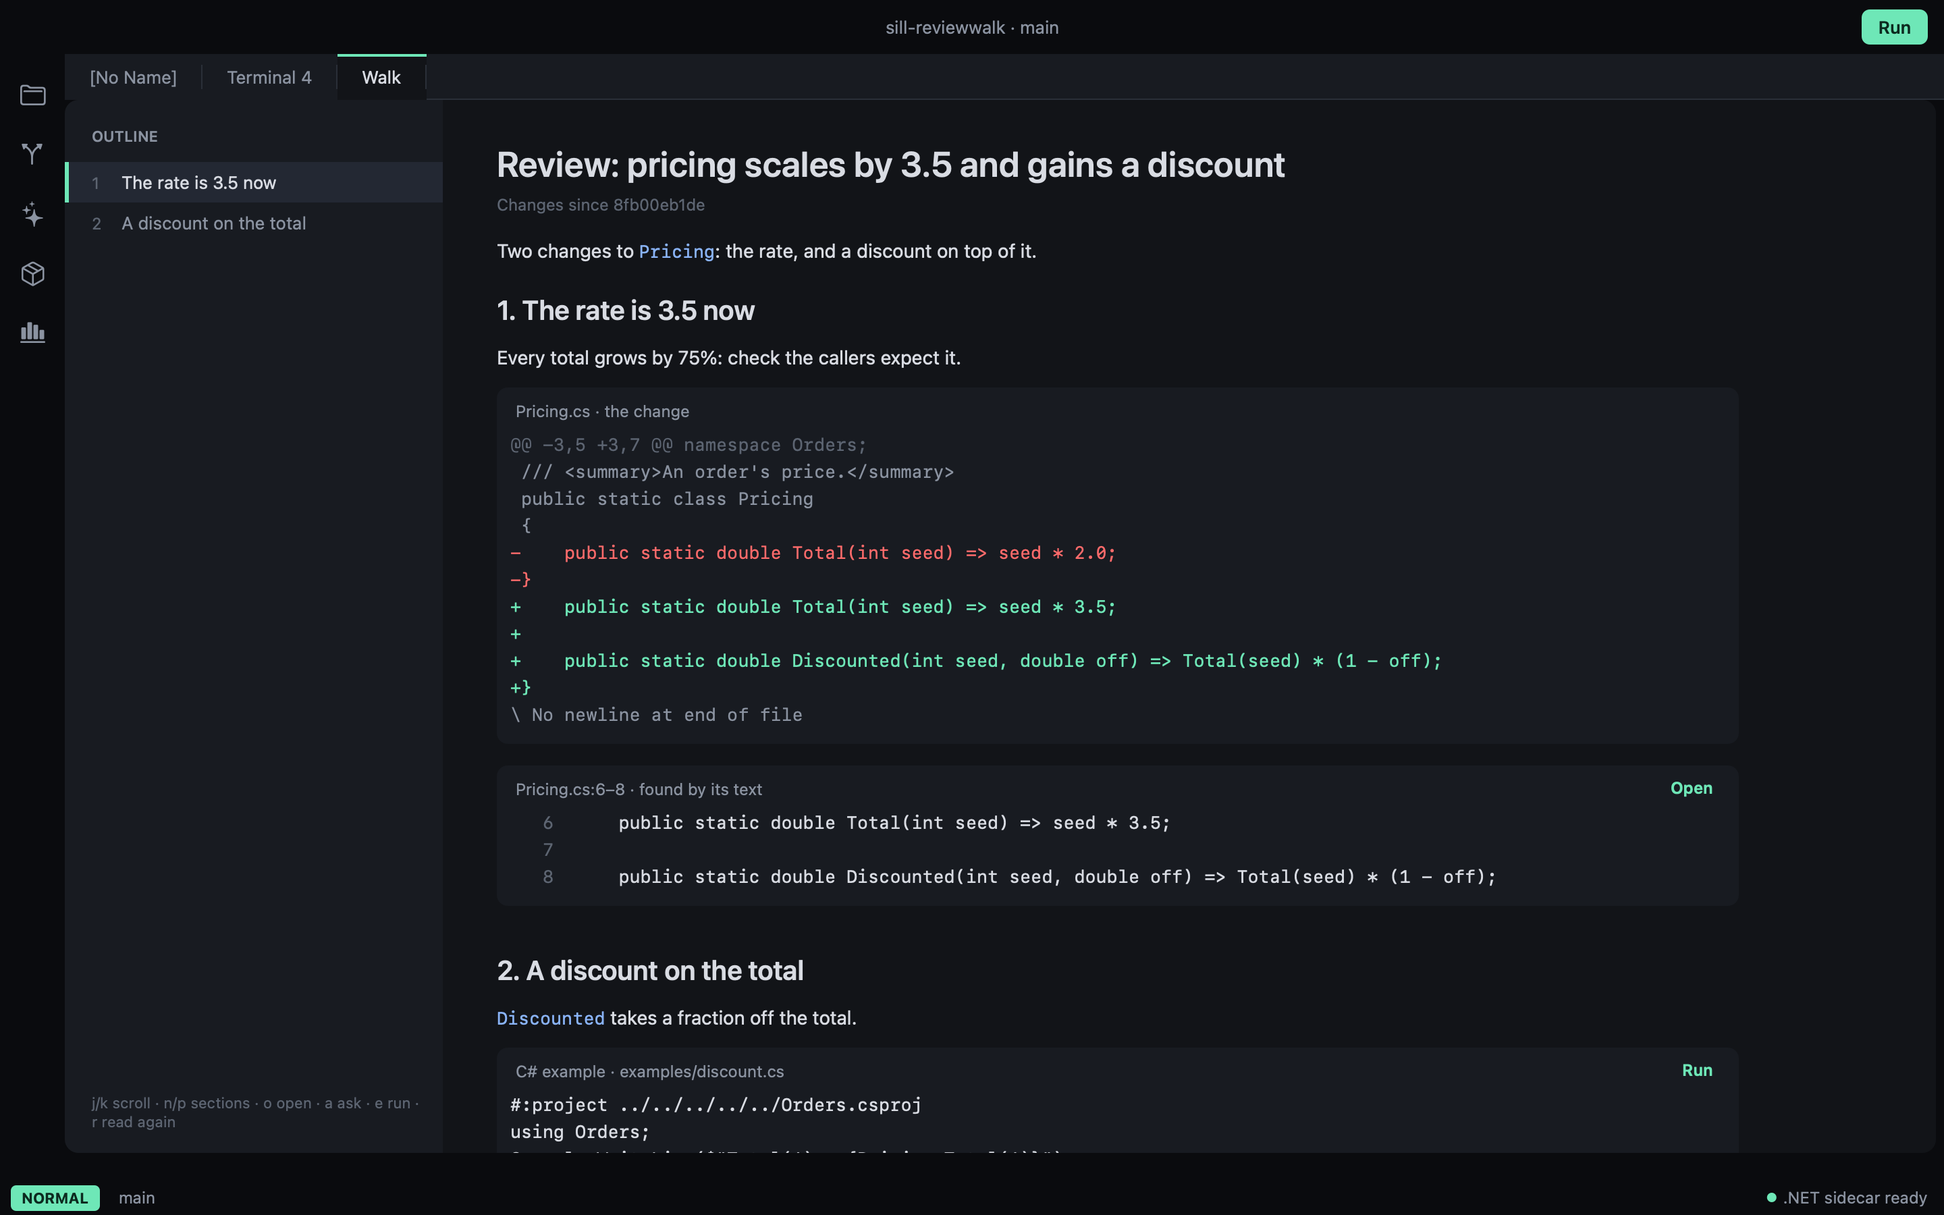
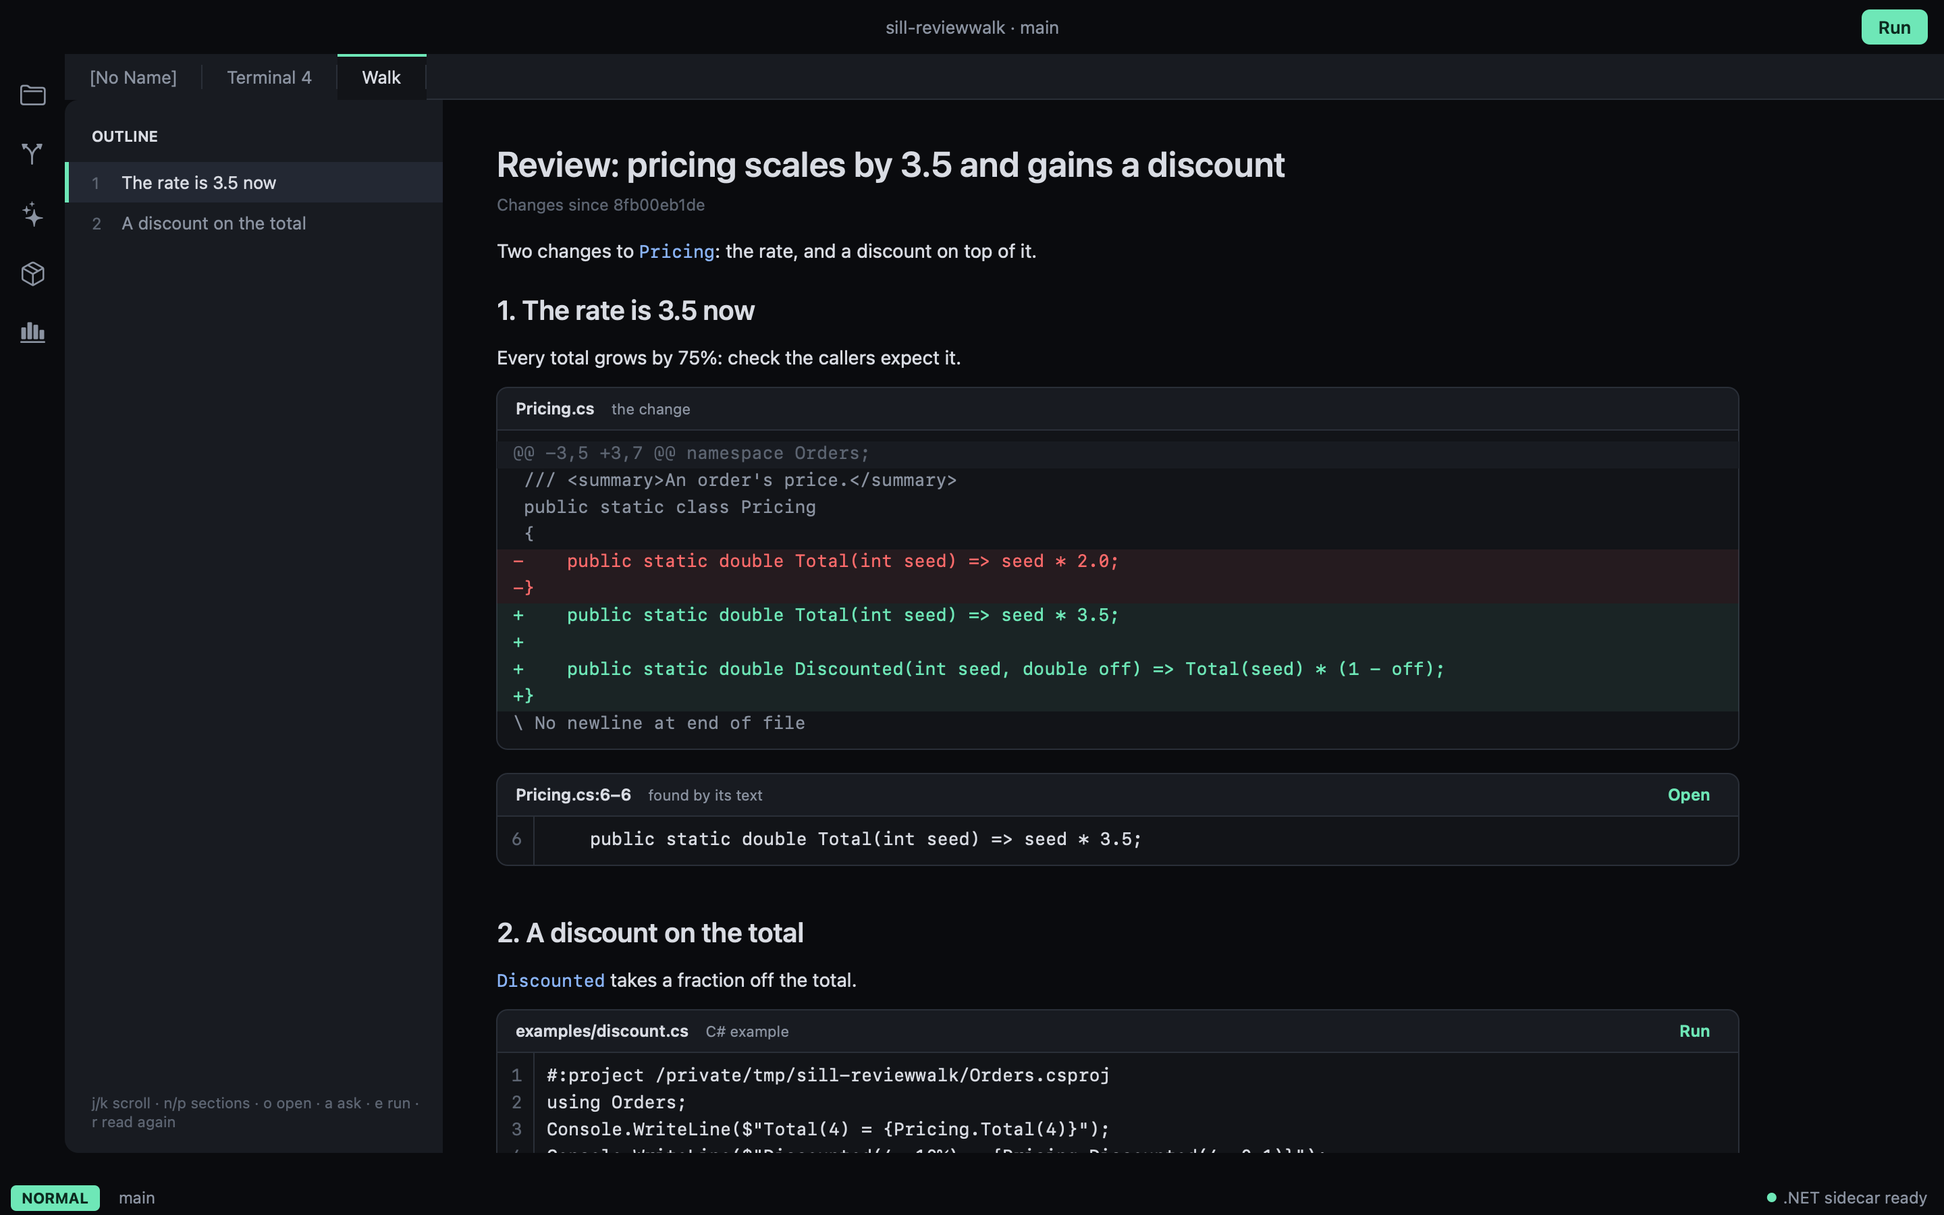
Notebook cells look like code panes
Walkthroughs, reviews and baskets draw each reference as a cell on the canvas: a header strip with the path, lines, facts and actions, the code on the editor's ground with a line-number gutter, details and an example's output as a footer inside the same border, a modified border on code changed since it was added, a diff's rows tinted across.

diff --git a/Sources/SillApp/WalkView.swift b/Sources/SillApp/WalkView.swift
@@ -91,7 +91,7 @@ final class WalkView: NSView, ToolContent {
     }
 
     override func draw(_: NSRect) {
-        Design.editor.setFill()
+        Design.canvas.setFill()
         bounds.fill()
         outlineFrames = []
         actionFrames = []
@@ -127,7 +127,10 @@ final class WalkView: NSView, ToolContent {
         fileFrames.append(("menu:files", NSRect(
             x: 28 + outlineLabel.size().width, y: 12, width: files.size().width + 16, height: 28
         )))
-        fileFrames.append(("menu:context", NSRect(x: contextX - 8, y: 12, width: context.size().width + 16, height: 28)))
+        fileFrames.append((
+            "menu:context",
+            NSRect(x: contextX - 8, y: 12, width: context.size().width + 16, height: 28)
+        ))
     }
 
     // MARK: The context
@@ -287,43 +290,137 @@ final class WalkView: NSView, ToolContent {
             }
             y += height + gap
         }
-        /// A rounded box of mono lines, a heading over them, an action on the right.
+        /// A cell, as a code pane shows code: a header strip (what it is, its facts, its actions on the right), the
+        /// lines on the editor's ground with a gutter of line numbers when they have them, and a footer (details, an
+        /// example's output) inside the same border.
         func box(
             _ heading: String,
             _ rows: [NSAttributedString],
-            action: (String, String, String)? = nil,
-            tint: NSColor = Design.chrome
+            firstLine: Int? = nil,
+            facts: [String] = [],
+            actions: [(title: String, kind: String, key: String)] = [],
+            footer: [NSAttributedString] = [],
+            footerTint: NSColor = Design.chrome,
+            border: NSColor = Design.border,
+            rowTints: [NSColor?] = []
         ) {
-            let lineHeight = EditorFont.metrics.height
-            let frame = NSRect(x: left, y: y, width: width, height: 34 + CGFloat(rows.count) * lineHeight + 10)
-            if frame.maxY > 0, frame.minY < bounds.height {
-                tint.setFill()
-                NSBezierPath(roundedRect: frame, xRadius: 8, yRadius: 8).fill()
-                text(heading, 12, Design.textMuted).draw(at: NSPoint(x: frame.minX + 14, y: frame.minY + 10))
-                var lineY = frame.minY + 34
-                for row in rows {
+            let lineHeight = EditorFont.metrics.height, header: CGFloat = 32
+            let footerHeight = footer.isEmpty ? 0 : CGFloat(footer.count) * lineHeight + 16
+            let frame = NSRect(
+                x: left, y: y, width: width,
+                height: header + (rows.isEmpty ? 0 : CGFloat(rows.count) * lineHeight + 16) + footerHeight
+            )
+            let gutter: CGFloat = firstLine.map { first in
+                CGFloat(String(first + max(rows.count - 1, 0)).count) * EditorFont.metrics.width + 28
+            } ?? 12
+            let visible = frame.maxY > 0 && frame.minY < bounds.height
+            // The actions, right to left in the header: placed now, drawn over the cell below.
+            var x = frame.maxX - 14
+            var labels: [(NSAttributedString, NSRect)] = []
+            for action in actions.reversed() {
+                let label = text(
+                    action.title,
+                    12,
+                    action.kind == "remove" ? Design.textMuted : Design.accent,
+                    weight: .semibold
+                )
+                let rect = NSRect(
+                    x: x - label.size().width - 14,
+                    y: frame.minY + 5,
+                    width: label.size().width + 14,
+                    height: 22
+                )
+                labels.append((label, rect))
+                actionFrames.append((action.kind, action.key, rect))
+                x = rect.minX - 6
+            }
+            if visible {
+                let shape = NSBezierPath(roundedRect: frame, xRadius: 8, yRadius: 8)
+                NSGraphicsContext.saveGraphicsState()
+                shape.addClip()
+                Design.editor.setFill()
+                frame.fill()
+                Design.chrome.setFill()
+                NSRect(x: frame.minX, y: frame.minY, width: frame.width, height: header).fill()
+                if !footer.isEmpty {
+                    footerTint.setFill()
+                    NSRect(x: frame.minX, y: frame.maxY - footerHeight, width: frame.width, height: footerHeight).fill()
+                }
+                border.setFill()
+                NSRect(x: frame.minX, y: frame.minY + header - 1, width: frame.width, height: 1).fill()
+                if !footer.isEmpty {
+                    NSRect(x: frame.minX, y: frame.maxY - footerHeight, width: frame.width, height: 1).fill()
+                }
+                if firstLine != nil, !rows.isEmpty {
+                    Design.border.setFill()
+                    NSRect(
+                        x: frame.minX + gutter - 10,
+                        y: frame.minY + header,
+                        width: 1,
+                        height: frame.height - header - footerHeight
+                    ).fill()
+                }
+                NSGraphicsContext.restoreGraphicsState()
+                border.setStroke()
+                shape.lineWidth = 1
+                shape.stroke()
+                // Room for the actions drawn above.
+                let title = NSMutableAttributedString(attributedString: text(
+                    heading,
+                    12,
+                    Design.text,
+                    weight: .semibold
+                ))
+                if !facts
+                    .isEmpty { title.append(text("    " + facts.joined(separator: "  ·  "), 11, Design.textMuted)) }
+                title.draw(
+                    with: NSRect(x: frame.minX + 14, y: frame.minY + 8, width: x - frame.minX - 20, height: 18),
+                    options: [.usesLineFragmentOrigin, .truncatesLastVisibleLine]
+                )
+                var lineY = frame.minY + header + 8
+                // A diff's added and removed lines, across the row.
+                NSGraphicsContext.saveGraphicsState()
+                shape.addClip()
+                for (offset, tint) in rowTints.enumerated() {
+                    guard let tint else { continue }
+                    tint.setFill()
+                    NSRect(
+                        x: frame.minX,
+                        y: lineY + CGFloat(offset) * lineHeight,
+                        width: frame.width,
+                        height: lineHeight
+                    ).fill()
+                }
+                NSGraphicsContext.restoreGraphicsState()
+                for (offset, row) in rows.enumerated() {
+                    if let first = firstLine {
+                        let number = mono(String(first + offset), Design.textFaint)
+                        number.draw(at: NSPoint(x: frame.minX + gutter - 18 - number.size().width, y: lineY))
+                    }
                     row.draw(
-                        with: NSRect(x: frame.minX + 10, y: lineY, width: frame.width - 20, height: lineHeight),
+                        with: NSRect(
+                            x: frame.minX + gutter,
+                            y: lineY,
+                            width: frame.width - gutter - 12,
+                            height: lineHeight
+                        ),
+                        options: [.usesLineFragmentOrigin, .truncatesLastVisibleLine]
+                    )
+                    lineY += lineHeight
+                }
+                for (label, rect) in labels {
+                    label.draw(at: NSPoint(x: rect.minX + 7, y: rect.minY + 3))
+                }
+                lineY = frame.maxY - footerHeight + 8
+                for row in footer {
+                    row.draw(
+                        with: NSRect(x: frame.minX + 14, y: lineY, width: frame.width - 28, height: lineHeight),
                         options: [.usesLineFragmentOrigin, .truncatesLastVisibleLine]
                     )
                     lineY += lineHeight
                 }
             }
-            if let (title, kind, key) = action {
-                let label = text(title, 12, Design.accent, weight: .semibold)
-                let rect = NSRect(
-                    x: frame.maxX - label.size().width - 26,
-                    y: frame.minY + 6,
-                    width: label.size().width + 14,
-                    height: 22
-                )
-                if frame.maxY > 0, frame.minY < bounds.height { label.draw(at: NSPoint(
-                    x: rect.minX + 7,
-                    y: rect.minY + 3
-                )) }
-                actionFrames.append((kind, key, rect))
-            }
-            y = frame.maxY + 16
+            y = frame.maxY + 18
         }
 
         write(text(walk.title, 26, weight: .semibold), gap: 8)
@@ -359,47 +456,22 @@ final class WalkView: NSView, ToolContent {
                     if let place, let file = place.path {
                         let moved = walker.moved.contains(line)
                         files.append((file, y + scroll, moved))
-                        let rows = place.lines.prefix(40).enumerated().map { offset, line in
-                            let row = NSMutableAttributedString(
-                                attributedString: mono(String(format: "%4d  ", place.from + offset), Design.textFaint)
-                            )
-                            row.append(mono(line))
-                            return row as NSAttributedString
-                        }
-                        if basket {
-                            // Remove, left of Open.
-                            let remove = text("Remove", 12, Design.textMuted, weight: .semibold)
-                            let rect = NSRect(
-                                x: left + width - remove.size().width - 90,
-                                y: y + 6,
-                                width: remove.size().width + 14,
-                                height: 22
-                            )
-                            actionFrames.append(("remove", "\(line)", rect))
-                        }
-                        let removeAt = y
-                        let facts = basket ? (chips?(anchor.text) ?? []) : []
+                        let facts = (moved ? ["changed since it was added"] : []) +
+                            (place.by == "text" ? ["found by its text"] : []) +
+                            (basket ? (chips?(anchor.text) ?? []) : [])
+                        let details = basket && expanded.contains(line) ? (details?(anchor.text) ?? []) : []
                         box(
-                            "\((file as NSString).lastPathComponent):\(place.from)–\(place.to)" +
-                                (place.by == "text" ? " · found by its text" : "") +
-                                (moved ? " · changed since it was added" : "") +
-                                (facts.isEmpty ? "" : "   " + facts.joined(separator: " · ")),
-                            rows,
-                            action: ("Open", "open", "\(index):\(blockIndex)"),
-                            tint: moved ? Design.modified.withAlphaComponent(0.1) : Design.chrome
+                            "\(relativePath(file)):\(place.from)–\(place.to)",
+                            place.lines.prefix(40).map { mono($0) },
+                            firstLine: place.from,
+                            facts: facts,
+                            actions: (basket ? [("Remove", "remove", "\(line)")] : []) +
+                                [("Open", "open", "\(index):\(blockIndex)")],
+                            footer: basket && expanded.contains(line) ?
+                                (details.isEmpty ? ["Collecting…"] : details)
+                                .map { text($0, 12, Design.textMuted) } : [],
+                            border: moved ? Design.modified.withAlphaComponent(0.7) : Design.border
                         )
-                        if basket, removeAt + 28 > 0, removeAt < bounds.height {
-                            let remove = text("Remove", 12, Design.textMuted, weight: .semibold)
-                            remove.draw(at: NSPoint(x: left + width - remove.size().width - 83, y: removeAt + 9))
-                        }
-                        if basket, expanded.contains(line) {
-                            let lines = details?(anchor.text) ?? []
-                            box(
-                                "context",
-                                (lines.isEmpty ? ["Collecting…"] : lines).map { text($0, 12, Design.textMuted) },
-                                tint: Design.chrome.withAlphaComponent(0.6)
-                            )
-                        }
                     } else {
                         write(text(
                             "⚠ \(name): \(place?.problem ?? (walker.resolving ? "finding it…" : "not found"))",
@@ -412,47 +484,53 @@ final class WalkView: NSView, ToolContent {
                         write(text("\(file): no change since the base", 13, Design.textFaint))
                         continue
                     }
-                    var rows: [NSAttributedString] = []
+                    var rows: [NSAttributedString] = [], tints: [NSColor?] = []
                     for hunk in diff.hunks {
                         rows.append(mono(hunk.header, Design.textFaint))
+                        tints.append(Design.chrome)
                         for line in hunk.lines.prefix(60) {
                             rows.append(mono(
                                 line,
                                 line.hasPrefix("+") ? Design.accent :
                                     line.hasPrefix("-") ? Design.error : Design.textMuted
                             ))
+                            tints.append(line.hasPrefix("+") ? Design.accent.withAlphaComponent(0.08) :
+                                line.hasPrefix("-") ? Design.error.withAlphaComponent(0.08) : nil)
                         }
                     }
-                    box("\(file) · the change", rows)
+                    box(file, rows, facts: ["the change"], rowTints: tints)
                 case let .example(file, _):
                     let path = examplePath(file)
                     let run = walker.runs[path]
                     let rows = (walker.examples[path] ?? "").components(separatedBy: "\n").prefix(60).map { mono($0) }
-                    box(
-                        "\(ScriptRunner.language(of: path)) example · \(file)",
-                        rows,
-                        action: (run?.running == true ? "Running…" : "Run", "run", path)
-                    )
+                    // Its output, when it has run, in the same cell.
+                    var output: [NSAttributedString] = []
                     if let run, !run.running {
-                        let output = run.output.trimmingCharacters(in: .newlines)
                         let status = run.status == 0 ? "ran in \(String(format: "%.1f", run.seconds)) s" :
                             "exited \(run.status) after \(String(format: "%.1f", run.seconds)) s"
-                        box(
-                            status,
-                            output.components(separatedBy: "\n").suffix(40).map {
+                        output = [text(status, 11, run.status == 0 ? Design.accent : Design.error, weight: .semibold)] +
+                            run.output.trimmingCharacters(in: .newlines).components(separatedBy: "\n").suffix(40).map {
                                 mono($0, run.status == 0 ? Design.text : Design.error)
-                            },
-                            tint: run.status == 0 ? Design.accent.withAlphaComponent(0.08) : Design.error
-                                .withAlphaComponent(0.1)
-                        )
+                            }
                     }
+                    box(
+                        file,
+                        rows,
+                        firstLine: 1,
+                        facts: ["\(ScriptRunner.language(of: path)) example"],
+                        actions: [(run?.running == true ? "Running…" : "Run", "run", path)],
+                        footer: output,
+                        footerTint: run?.status ?? 0 == 0 ? Design.accent.withAlphaComponent(0.06) :
+                            Design.error.withAlphaComponent(0.08)
+                    )
                 case let .trace(symbol, callers, _, _):
                     let tree = walker.traces[symbol + (
                         callers ? " callers" : " callees"
                     )] ?? "Asking the language server…"
                     box(
-                        (callers ? "who calls " : "what calls ") + symbol,
-                        tree.components(separatedBy: "\n").dropFirst().prefix(60).map { mono($0) }
+                        symbol,
+                        tree.components(separatedBy: "\n").dropFirst().prefix(60).map { mono($0) },
+                        facts: [callers ? "who calls it" : "what it calls"]
                     )
                 case let .ask(question, answer, line):
                     write(text(question, 15, Design.insert, weight: .semibold), gap: 6)

diff --git a/docs/plan.md b/docs/plan.md
@@ -778,6 +778,15 @@ Days 1 and 2 left these behind, for later days to pick up or keep:
     basket without it; chips, the Context menu, `i`), the investigate check (`basket_add` of Report.cs answers that
     `Prints` reaches it); not saving the context fails the basket check.
   - Not yet: the agent's summary of a basket on request.
+- Notebook cells (2026-10-25, owner: "The notepads should look more like a code pane. With reference cells clear
+  boundaries."). Walkthroughs, reviews and baskets draw each reference as a cell on the canvas: a header strip (the
+  path from the worktree's root and lines, the facts, the actions on the right), the code on the editor's ground with
+  a line-number gutter and its rule, a footer inside the same 1 pt border for a piece's details and an example's
+  output, a modified-coloured border on a piece changed since it was added, a diff's added and removed rows tinted
+  across. Looked at in the basket and review walkthrough screenshots; the checks drive the same actions.
+  - Also: a basket piece's context collected after the piece had changed (lines joined) was saved under its old
+    anchor, counting it twice in the Context menu; it is dropped now. The basket check waits for exactly the
+    basket's pieces, but the race clears on the next read, so removing the guard does not fail it reliably.
 - No CI until sill has shown it has legs (owner's call, 2026-10-22): macOS runner minutes cost on a private repo.
   Until then `mise run lint test` and `SILL_CHECK=1` run locally.
 

diff --git a/README.md b/README.md
@@ -240,7 +240,7 @@ tests that reach it, how often its lines changed and the last commit, and the pr
 the piece's heading, `i` opens them, the Context menu sums them up across the basket (projects, tests, who changed
 the code last), and agents get them with the code (`basket_read`, and in `basket_add`'s answer).
 
-![A basket: its question and status, the pieces with their notes and code, and the files menu](docs/showcase-basket-2026-10-25.png)
+![A basket: its question and status, each piece a cell with its facts, one opened to its context, and the Context menu](docs/showcase-basket-2026-10-25.png)
 
 ## Investigations
 
